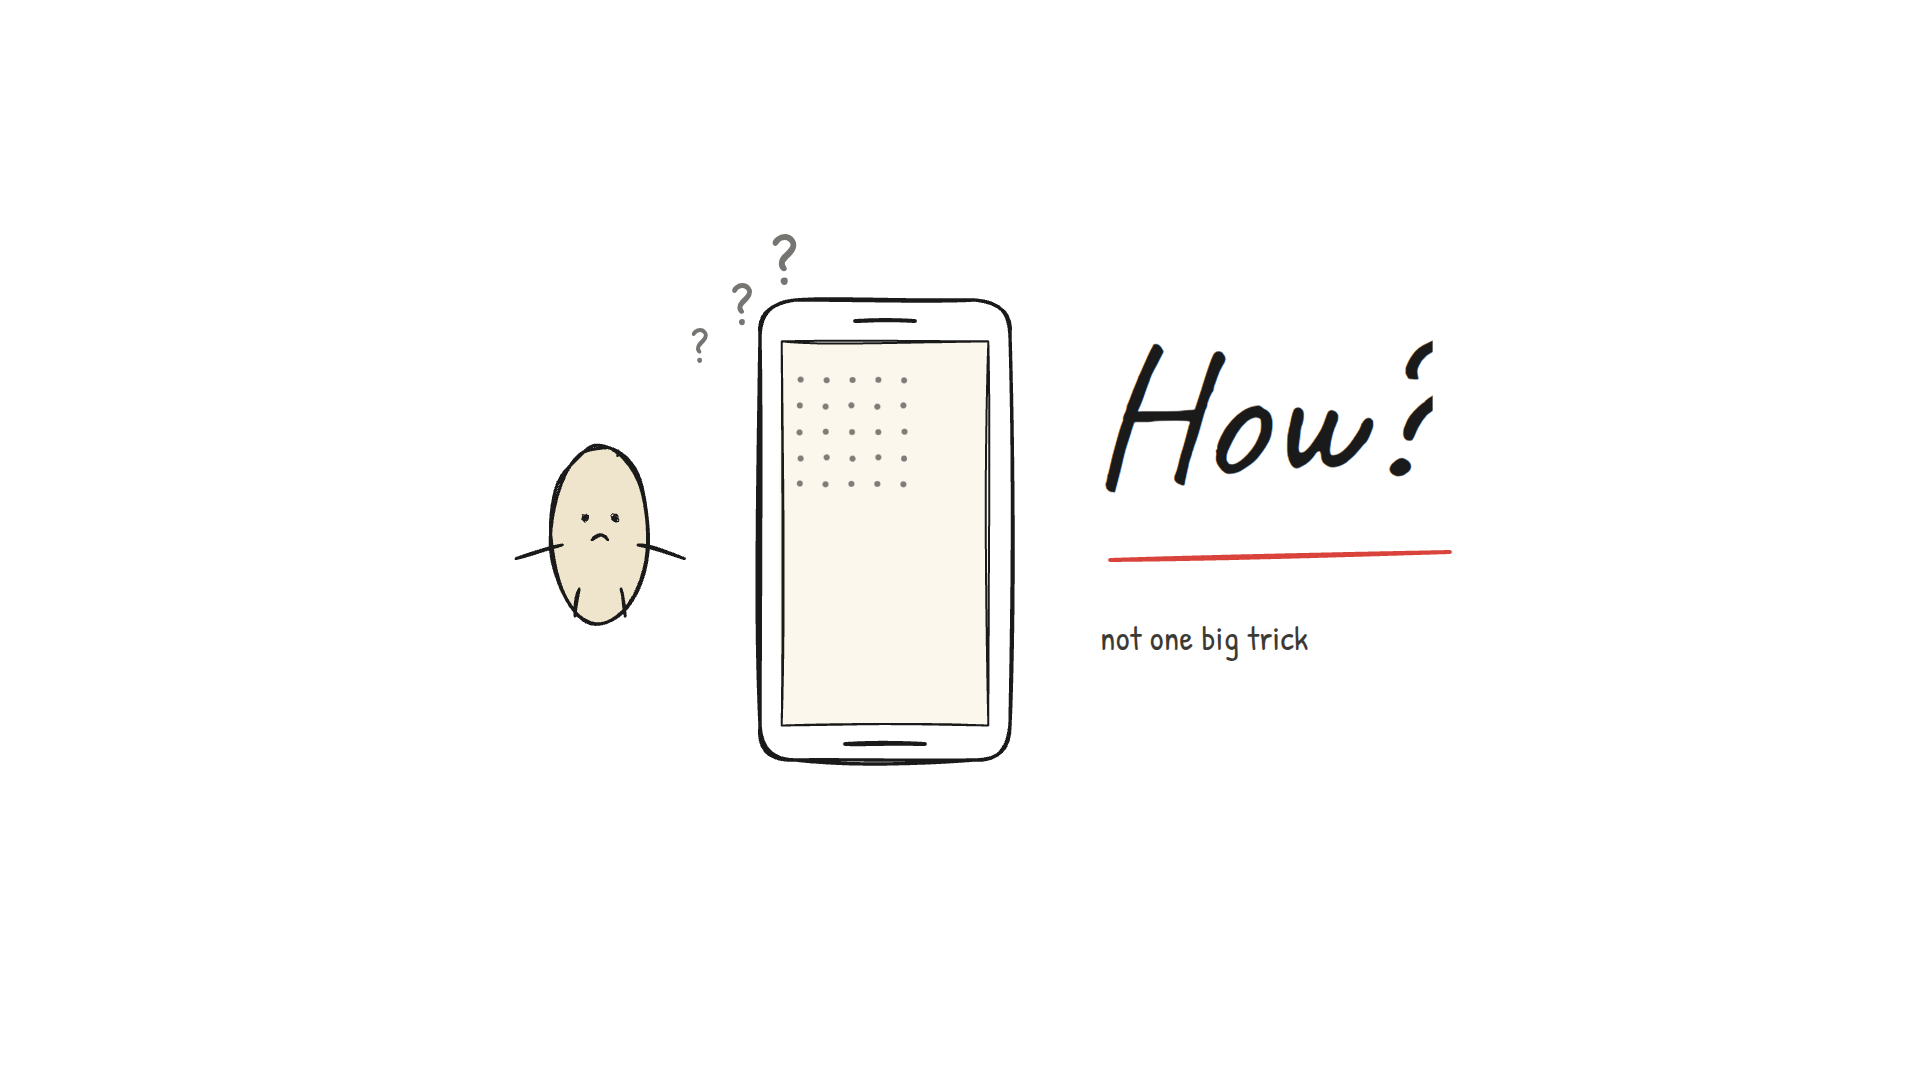
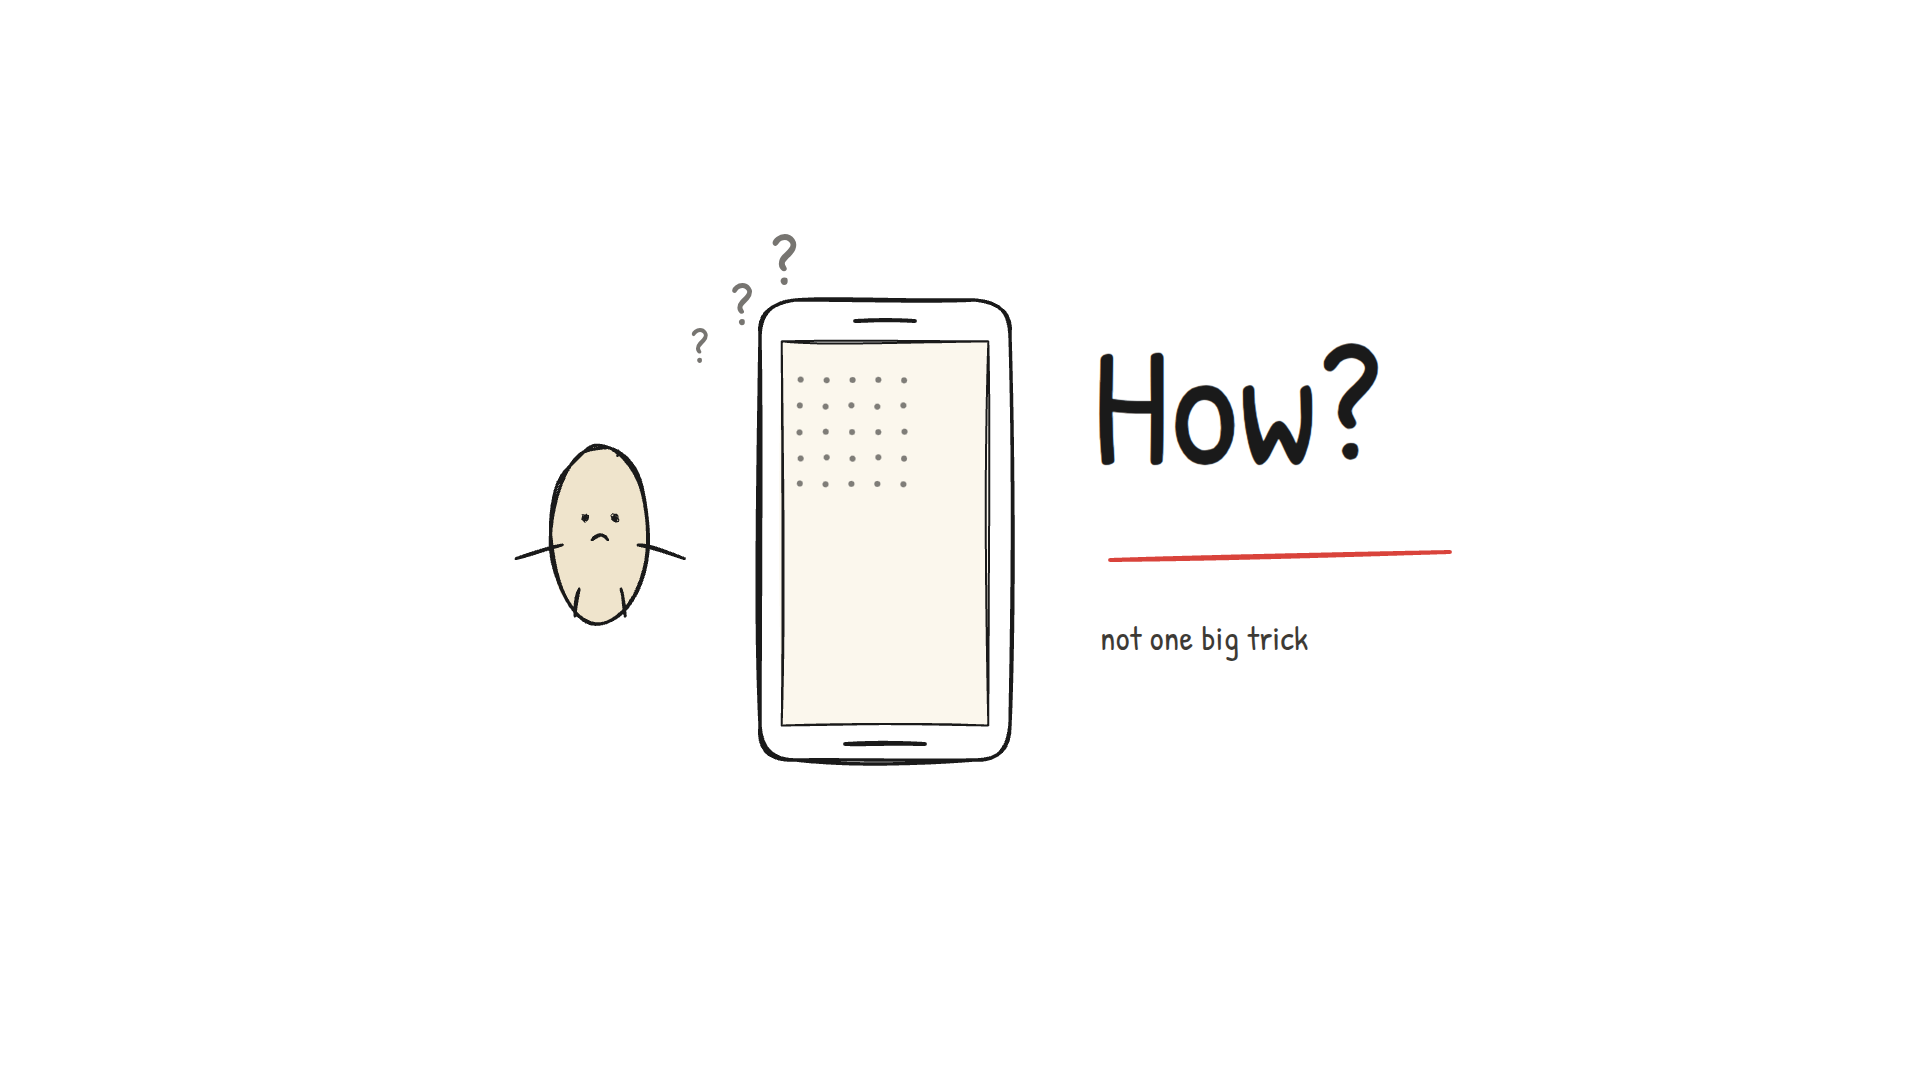
Fix How? glyph, restore fade-through-white transitions, add 4K Colab renderer

Changed region(s): [[0.5625, 0.3056, 0.75, 0.4583]]

diff --git a/video/src/Video.tsx b/video/src/Video.tsx
@@ -26,24 +26,15 @@ const FontLoader: React.FC = () => {
   return null;
 };
 
-const OVERLAP = 8;
-
 const SceneSlot: React.FC<{
   scene: (typeof SCENES)[number];
   localFrame: number;
-  durationInFrames: number;
 }> = ({scene, localFrame}) => {
-  const reveal =
-    scene.start === 0
-      ? 1
-      : Math.max(0, Math.min(1, localFrame / OVERLAP));
+  const opacity =
+    scene.start === 0 ? 1 : Math.max(0, Math.min(1, localFrame / 4));
   const Scene = scene.component;
   return (
-    <AbsoluteFill
-      style={{
-        clipPath: `inset(0 ${100 - reveal * 100}% 0 0)`,
-      }}
-    >
+    <AbsoluteFill style={{opacity}}>
       <Scene start={scene.start} end={scene.end} />
     </AbsoluteFill>
   );
@@ -77,15 +68,12 @@ export const Video: React.FC = () => {
           Math.round((scene.end - scene.start) * FPS),
         );
         const localFrame = frame - from;
-        if (localFrame < 0 || localFrame >= durationInFrames + OVERLAP) {
-          return null;
-        }
+        if (localFrame < 0 || localFrame >= durationInFrames) return null;
         return (
           <SceneSlot
             key={scene.id}
             scene={scene}
             localFrame={localFrame}
-            durationInFrames={durationInFrames}
           />
         );
       })}

diff --git a/video/src/scenes/Intro.tsx b/video/src/scenes/Intro.tsx
@@ -288,7 +288,7 @@ export const HowQuestion: React.FC<SceneProps> = ({start}) => {
       <Phone x={760} y={300} w={250} h={460} draw={p(26.4, 0.9)} screenFill="#FBF7ED" />
       <DotGrid x={800} y={380} cols={5} rows={5} gap={26} r={3} progress={p(26.5)} opacity={0.6} />
       <Bean x={600} y={450} h={170} draw={p(26.4)} face="worried" arms="out" />
-      <Text x={1090} y={310} size={190} font="title" draw={p(27.1, 0.7)}>
+      <Text x={1090} y={310} size={170} font="label" draw={p(27.1, 0.7)}>
         How?
       </Text>
       <Line x1={1110} y1={560} x2={1110 + 340 * p(27.4)} y2={552} stroke={COLORS.red} strokeWidth={4} draw={p(27.4)} seed={701} />

diff --git a/scripts_build_storyboard.py b/scripts_build_storyboard.py
@@ -178,7 +178,7 @@ lines.append('- Focal elements share fixed margins; no title/callout sits on a d
 lines.append('- Arrow tips are computed from endpoint geometry; arrows point to object edges, not labels.')
 lines.append('- Completed frames hold 1.5–3 s wherever narration allows; long scenes stage elements one-by-one.')
 lines.append('- No top-left headings/subheadings: narration + figure labels carry the scene.')
-lines.append('- Transitions wipe over the previous frame; no white gap and no grey cross-fade.')
+lines.append('- Transitions use a short 4-frame fade through white; next visuals are pre-rolled so the gap is a blink.')
 lines.append('- Opening visuals are pre-rolled so scene start + 0.4 s is never blank.')
 lines.append('- Pacing pass: every final reveal now holds at least ~2 s, with dense scenes held 2.4–5 s.')
 lines.append('- Word timings are stored in `video/src/data/words.json` for frame-accurate cueing.')

diff --git a/skill.md b/skill.md
@@ -47,10 +47,10 @@ Generates storyboards, timing sheets, visual scripts, and production prompts mat
   * Never cut on the same word that completes a diagram.
   * If the final narration line is only a hand-off ("let's run the numbers", "adapters fix that"), move that copy into the next scene instead of leaving it 0.1–0.8 s on screen.
   * Dense scenes (multi-part diagrams, math, architecture) need the **final state held 2.5–3.5 s**. Simplify the last beat rather than rushing the cut.
-* **No empty cuts (hard rule):**
-  * Never cut to a completely blank white frame. The next scene must open on a visual, not on a title card or an empty canvas.
-  * Use a clean left-to-right wipe that reveals the next scene over the still-visible previous frame. Do not fade both scenes toward white; that produces a grey/blank gap.
-  * If a scene truly needs a chapter card, keep the previous diagram or a motif underneath it so the screen is never empty.
+* **Transitions = short fade through white (hard rule):**
+  * Use a **4–6 frame** fade through white at 30 fps (0.13–0.2 s). Do not use a left-to-right wipe; it makes the cut feel mechanical.
+  * Pre-roll the next scene's first visual so the white gap is only a blink, never a blank scene. Never expose an empty canvas for more than ~0.2 s.
+  * If a scene truly needs a chapter card, keep a motif on screen so the card is never an empty text slide.
   * Verify with a still at **scene start + 0.4 s**. If it is more than ~80% empty, move the first visual earlier.
 
 ---
@@ -60,7 +60,7 @@ Generates storyboards, timing sheets, visual scripts, and production prompts mat
 * **Negative Space:** Keep 60%–80% of the canvas empty at all times.
 * **Groundline / Baseline:** Anchor figures and buildings to an uninterrupted bottom horizontal guideline.
 * **Focal Point Isolation:** Keep 1 active focus zone per beat (left, center, or right). Do not animate multiple unrelated quadrants simultaneously.
-* **Transitions:** Clean wipe, lateral pan along the groundline, or sudden clear-to-white. Avoid flashy camera zooms or rotations.
+* **Transitions:** Short fade through white (4–6 frames), lateral pan along the groundline, or sudden clear-to-white. No left-to-right wipes, flashy zooms, or rotations.
 * keep font size big
 
 ---

diff --git a/video/README.md b/video/README.md
@@ -44,12 +44,27 @@ out/preview-sheet.png    57-frame overview contact sheet
 
 The production timing sheet is at `../storyboard.md`.
 
+## 4K render (Colab)
+
+Open `colab_render.ipynb` in Colab. It clones the private repo with a GitHub token and runs `render-4k.mjs`.
+
+- Output: **3840×2160**, 30 fps, H.264 CRF 16, AAC 320 kbps
+- Every completed frame prints as `[frame 00000/21965] ... %`
+- A 12-frame 4K test runs first
+- Rendering is CPU-heavy; expect **2–6 hours** on a free Colab CPU runtime and less on High-RAM / more vCPUs
+
+Command used under the hood:
+
+```bash
+CONCURRENCY=4 node render-4k.mjs
+```
+
 ## Reading pass
 
 - Removed the top-left eyebrow/title/subtitle from every content scene. The narration and the diagram labels carry the scene; no more “read top-left, then look center” eye movement.
 - Chapter cards keep only the big chapter number, one title, and a motif. Subtitles and the footer line are gone.
-- Scene transitions now use a fast left-to-right wipe that reveals the next diagram over the previous frame. No white gaps and no grey cross-fade.
-- Opening visuals are pre-rolled so they are already drawn when the wipe completes.
+- Scene transitions use a short **fade through white** (4 frames), with the next diagram already pre-rolled underneath. No left-to-right wipe.
+- Opening visuals are pre-rolled so they are already drawn when the fade completes.
 
 ## Pacing pass
 

diff --git a/storyboard.md b/storyboard.md
@@ -80,7 +80,7 @@
 - Arrow tips are computed from endpoint geometry; arrows point to object edges, not labels.
 - Completed frames hold 1.5–3 s wherever narration allows; long scenes stage elements one-by-one.
 - No top-left headings/subheadings: narration + figure labels carry the scene.
-- Transitions wipe over the previous frame; no white gap and no grey cross-fade.
+- Transitions use a short 4-frame fade through white; next visuals are pre-rolled so the gap is a blink.
 - Opening visuals are pre-rolled so scene start + 0.4 s is never blank.
 - Pacing pass: every final reveal now holds at least ~2 s, with dense scenes held 2.4–5 s.
 - Word timings are stored in `video/src/data/words.json` for frame-accurate cueing.
